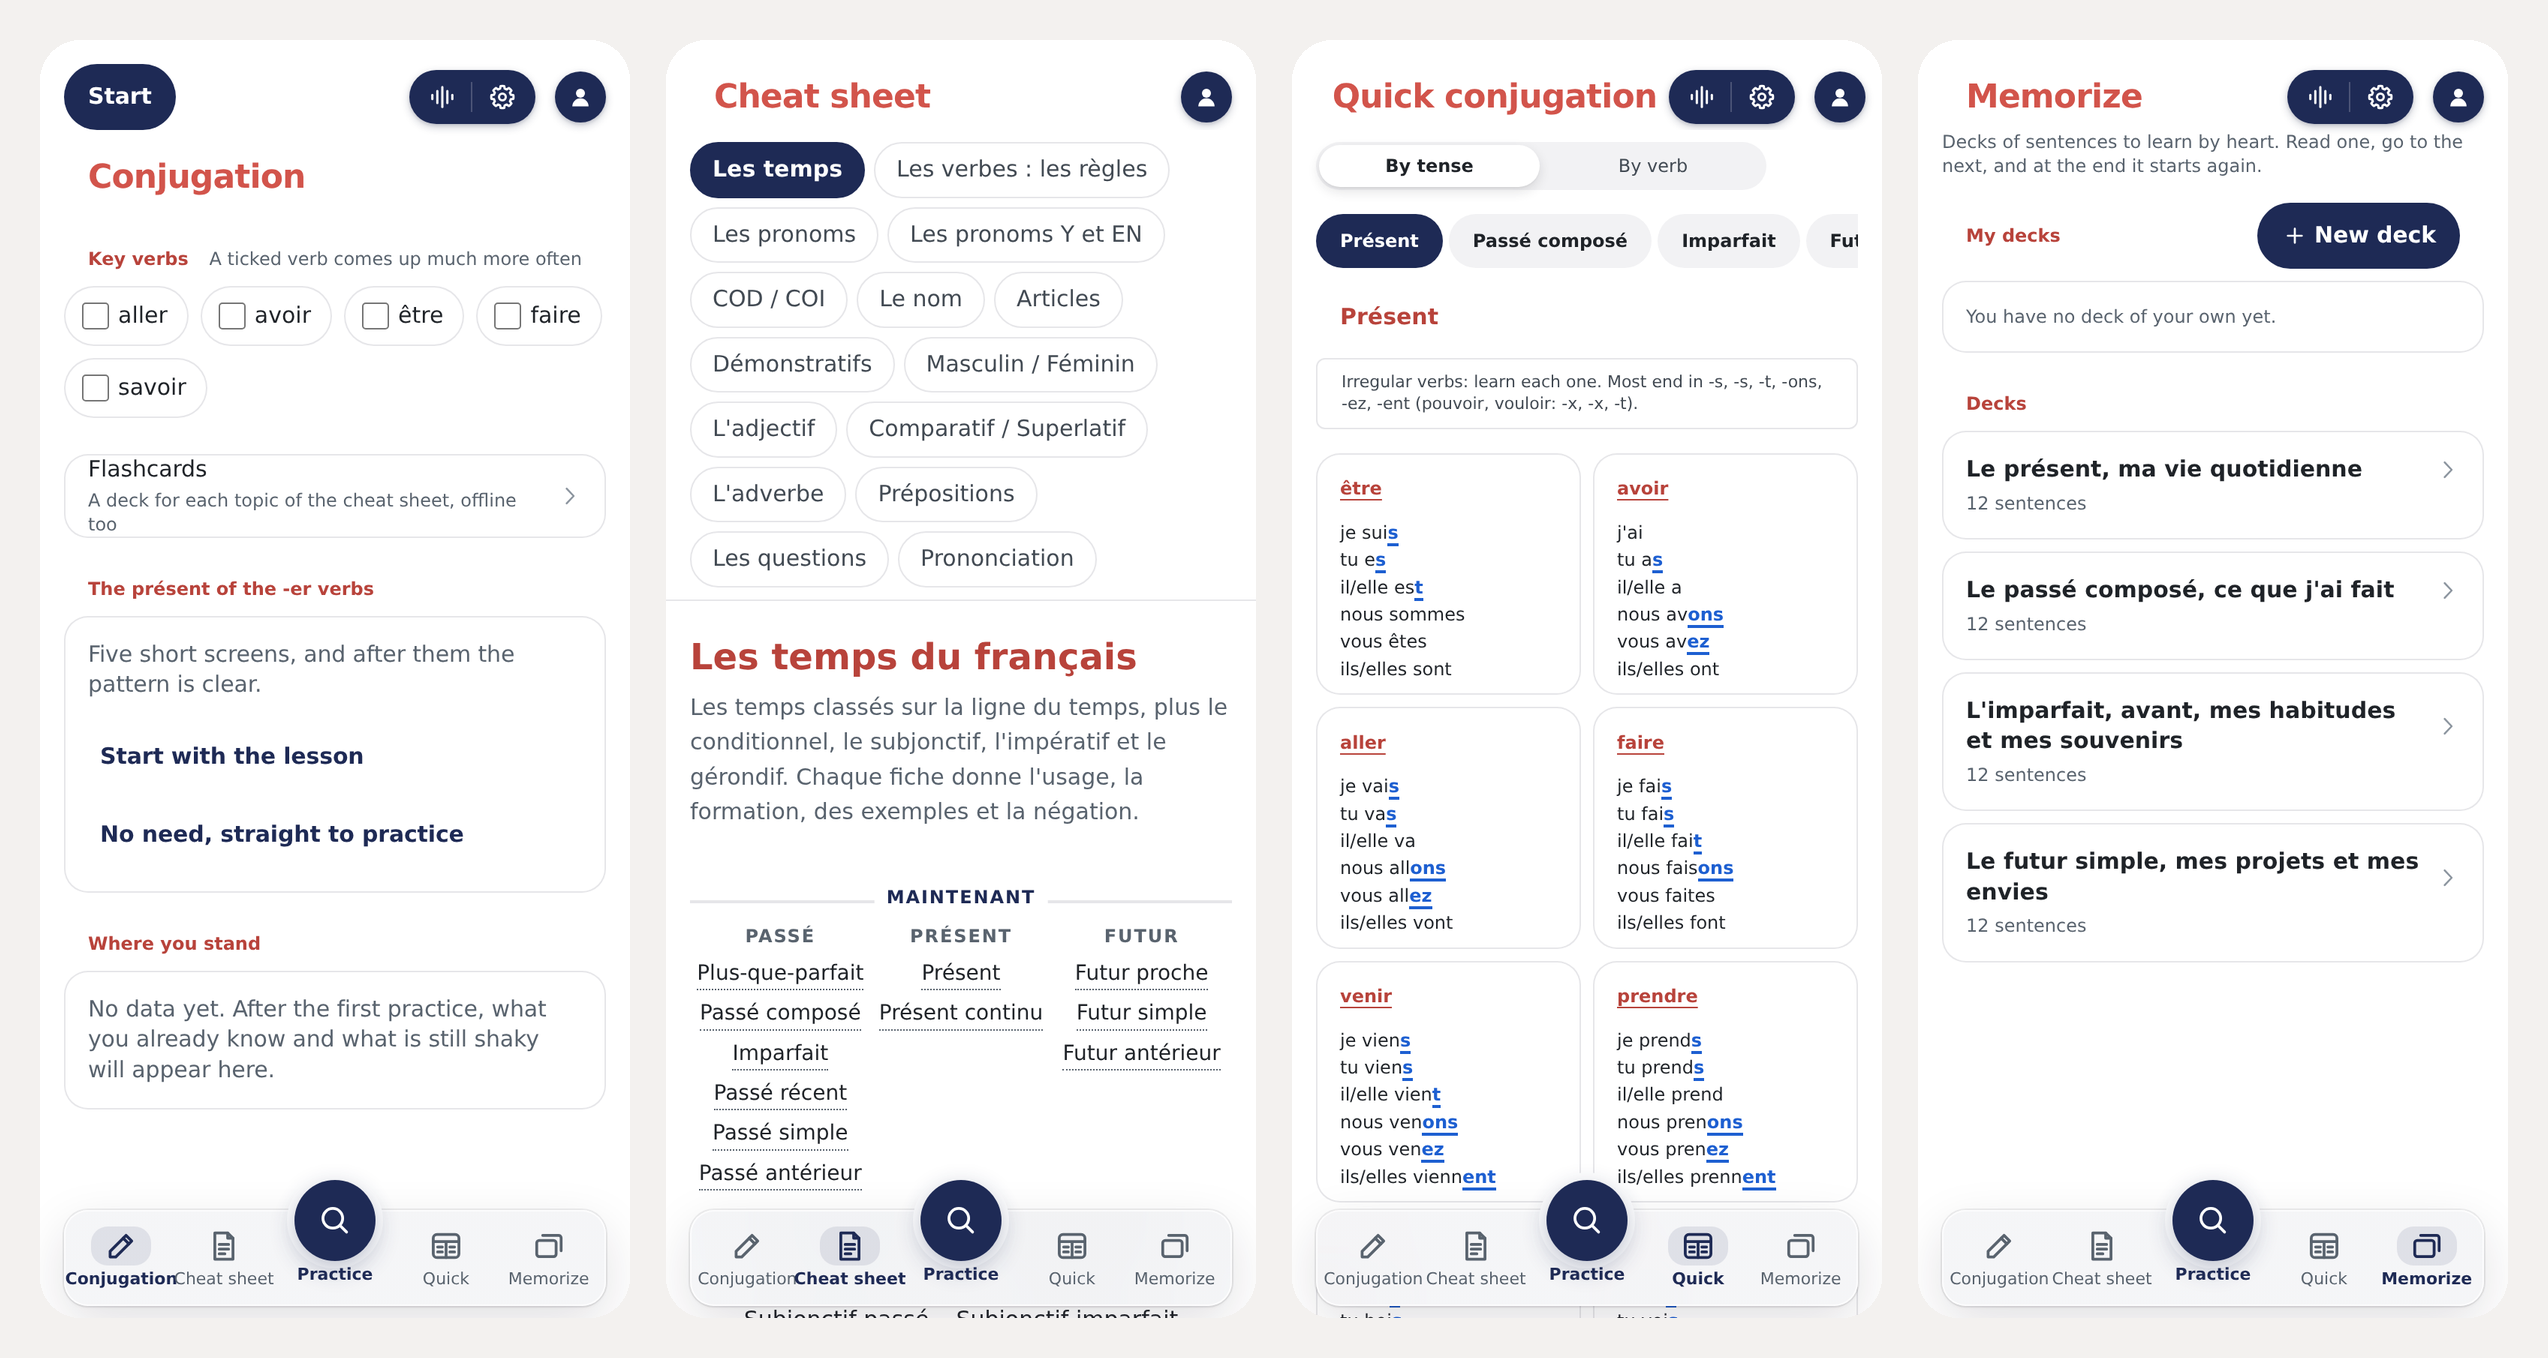
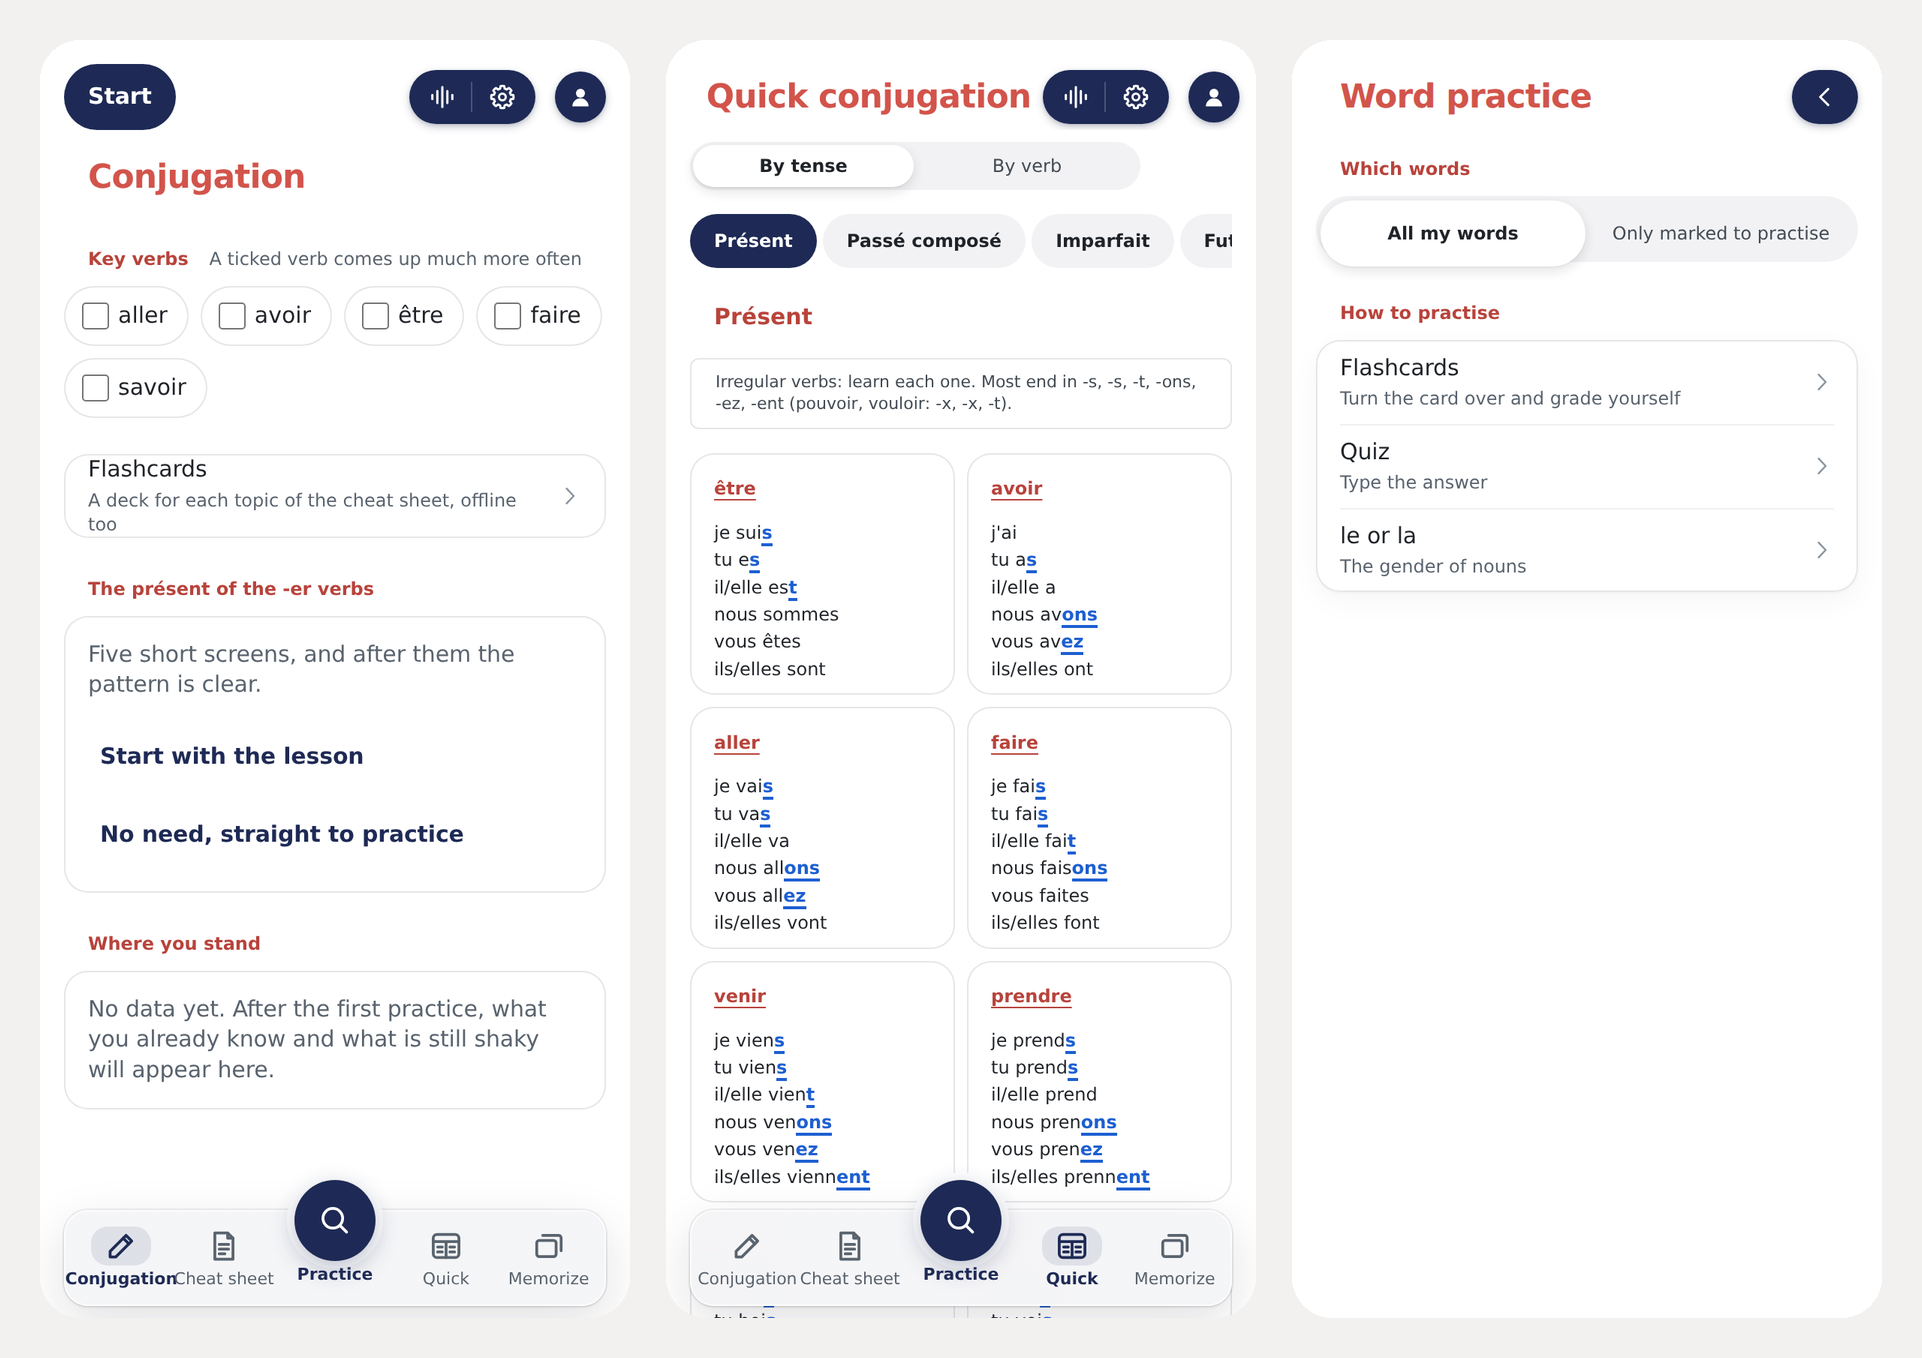
Add files via upload

diff --git a/README.md b/README.md
@@ -14,9 +14,17 @@ Voilà is an app for practising French verb conjugation. It is an installable we
 
 ## A look
 
-Real screens of the app, captured on a fresh install with an empty database, so they show no personal data: the conjugation setup, the cheat sheet, quick conjugation tables, and decks of sentences to learn by heart.
+Real screens of the app, captured on a fresh install with an empty database, so they show no personal data.
 
-<p align="center"><img src="screens.png" alt="Conjugation, Cheat sheet, Quick conjugation and Memorize screens" width="100%"></p>
+**On the computer:** the cheat sheet, a reference for every French tense with its use, its formation and examples, and the quick conjugation tables for the most common irregular verbs.
+
+<p align="center"><img src="screens-desktop-cheatsheet.png" alt="The cheat sheet on a computer" width="100%"></p>
+
+<p align="center"><img src="screens-desktop-quick.png" alt="Quick conjugation tables on a computer" width="100%"></p>
+
+**On the phone:** the conjugation setup, quick conjugation, and word practice for vocabulary.
+
+<p align="center"><img src="screens.png" alt="Conjugation, Quick conjugation and Word practice screens on a phone" width="100%"></p>
 
 ## A coach that is part of the app
 
